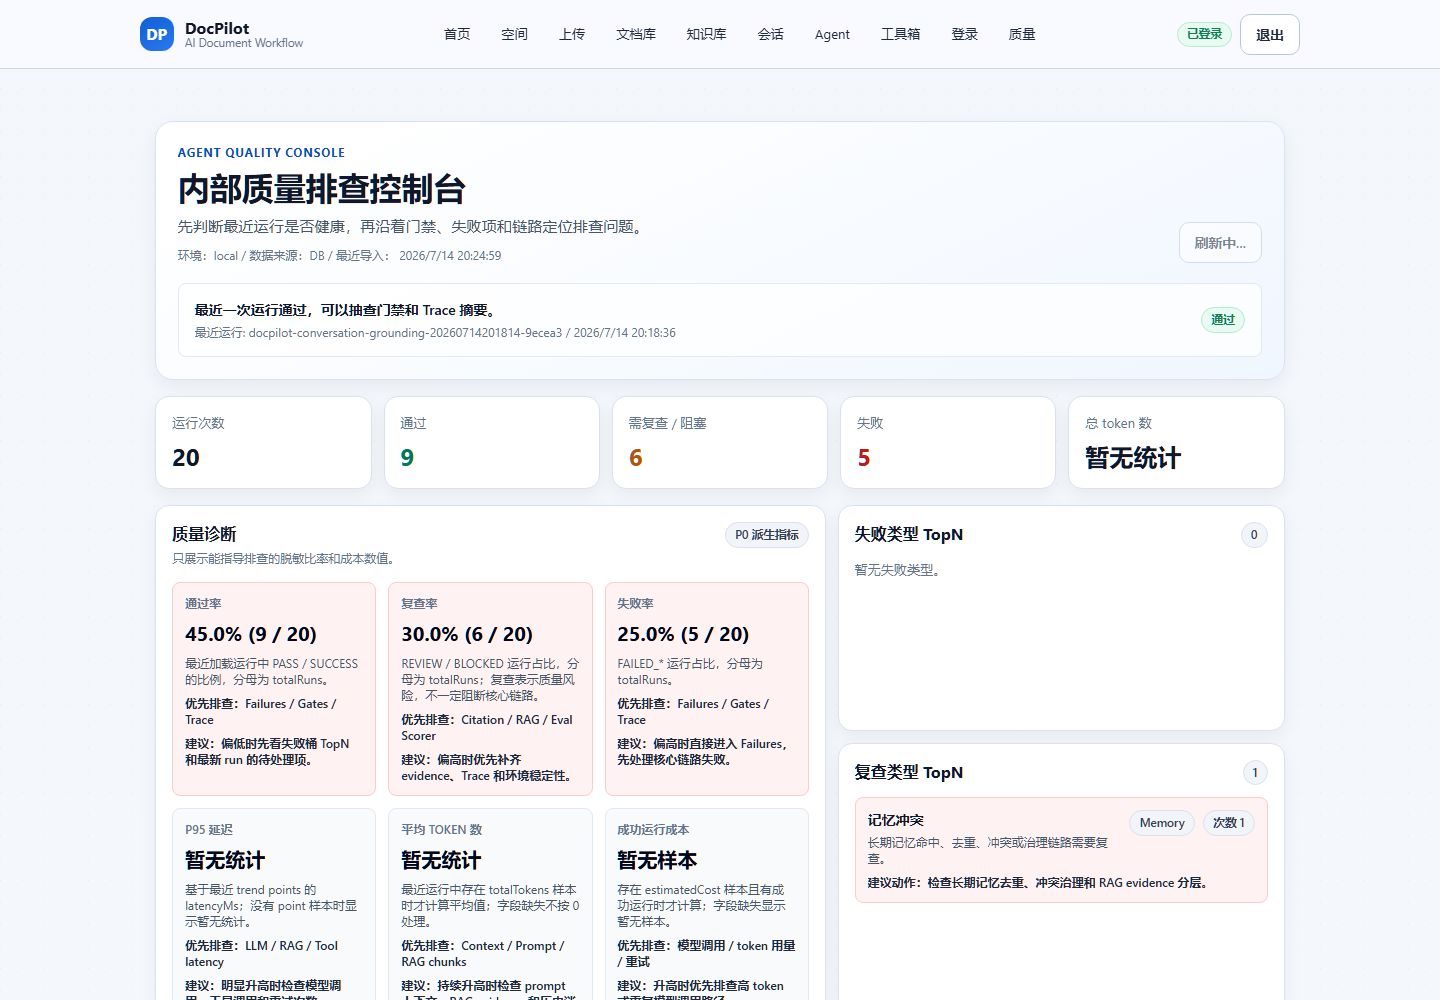
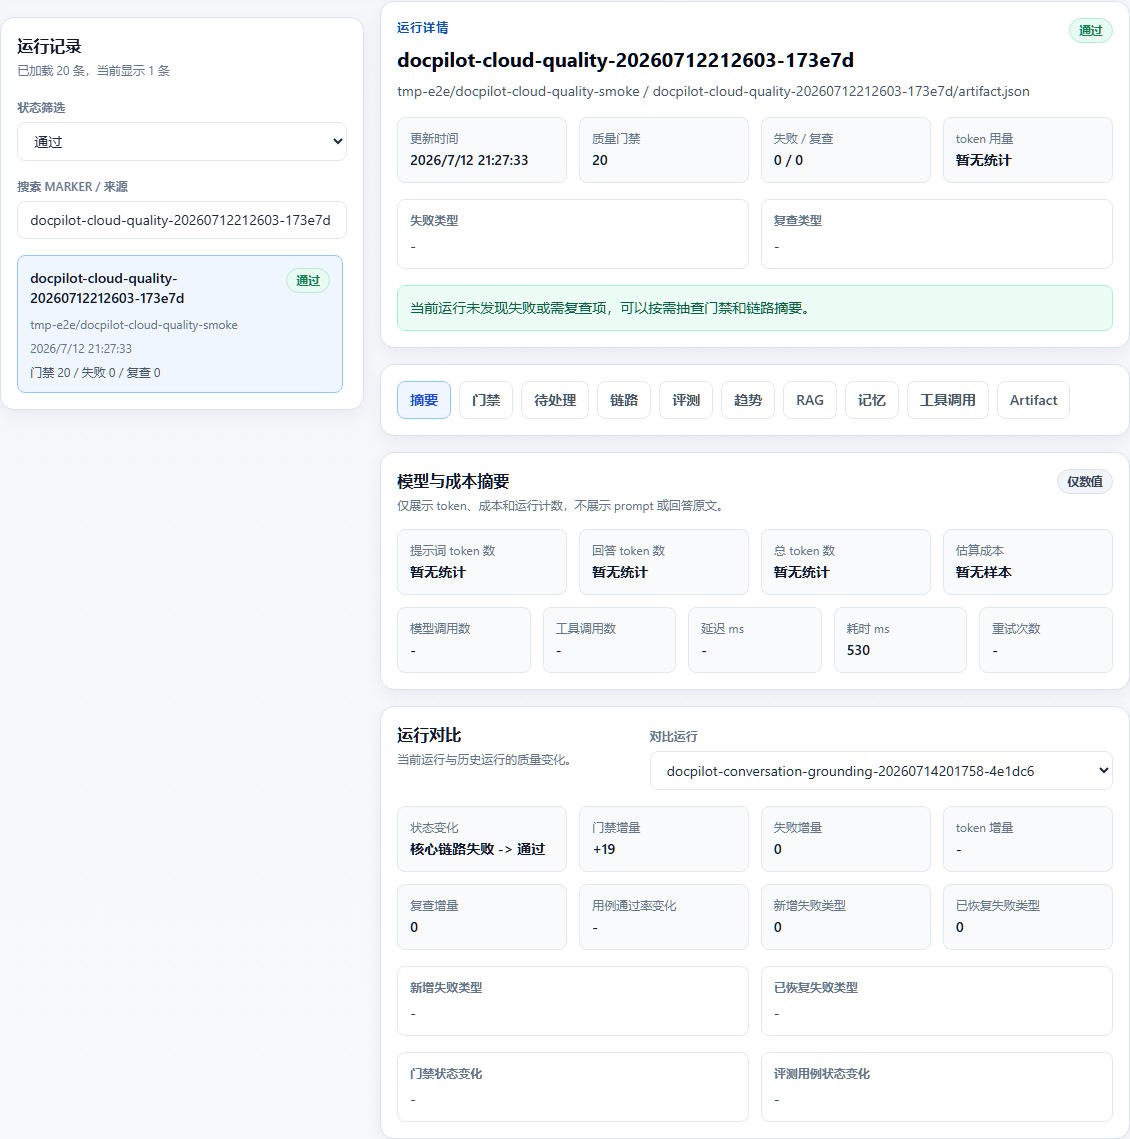
docs(readme): improve quality console showcase

diff --git a/docs/ai-dev/REAL_EXPERIENCE_AUDIT_LOG.md b/docs/ai-dev/REAL_EXPERIENCE_AUDIT_LOG.md
@@ -34,6 +34,7 @@
 
 | 日期 | Marker | 状态 | Artifact | 摘要 |
 | --- | --- | --- | --- | --- |
+| 2026-07-14 | `readme-quality-showcase-20260714214023` | VERIFIED / UI（README Quality Console 展示口径已修正） | `backend/target/readme-quality-showcase-20260714214023/quality-pass-screenshot-summary.json` | 登记 `REA-20260714-P3-041`：README 原 Quality Console 图使用内部排障混合视图，公开首屏显示低通过率 / 失败率和暂无统计字段，容易让面试官误读为系统整体质量差。已改为筛选后的 PASS 核心样本 `docpilot-cloud-quality-20260712212603-173e7d`，展示质量门禁 `20`、失败 / 复查 `0 / 0` 和门禁页；Playwright console error `0`。最近 `50` 条 QualityRun 的 PASS `27` / REVIEW `17` / FAILED_CORE_FLOW `6` 已保留为后续质量治理任务，不通过删除失败历史解决。 |
 | 2026-07-14 | `docpilot-parser-real-chain-20260714184055-21d3de` | VERIFIED / CORE（长文档 batch split 与原失败任务恢复已核验） | `backend/target/smoke/document-parser-real-chain/docpilot-parser-real-chain-20260714184055-21d3de/artifact.json` | 收口 `REA-20260713-P1-001`：parser runner 新增 LONG_MD 长文档 canary，真实切出 `25` chunks，PDF / HTML / DOCX / LONG_MD 均 parse / retrieve / citation / source locator 通过；MySQL chunk / indexed / vectorId / Qdrant point 总计 `32 / 32 / 32 / 32`，payload 和 locator 摘要均 `32`，parser boundary `4/4`，artifact redaction PASS。原失败 document `1431` / task `1322` 已只读核验为 SUCCESS，task retryCount `2`，原文档 MySQL / Qdrant parity 为 `12 / 12 / 12 / 12`，最新 outbox `SENT`、consume `SUCCESS`。 |
 | 2026-07-14 | `docpilot-memory-quality-20260714175619-8f1939` / `memory-ui-disable-restore-20260714100303` | VERIFIED / API+UI（T31 per-memory disable / restore 已收口） | `backend/target/memory-quality/docpilot-memory-quality-20260714175619-8f1939/artifact.json` / `backend/target/memory-ui-disable-restore-20260714100303/memory-ui-disable-restore-summary.json` | 修复 `REA-20260713-P2-033`：复用 `ARCHIVED` 作为单条 memory 停用状态，新增 disabled list、disable、restore API；T31 真实 smoke 证明停用后新 `AGENT_MEMORY` 不再选入且 `use_count` 不变，恢复后重新选入，跨用户 disable / restore 被拒，delete 后不可 restore。浏览器验证 `/conversations` Memory 抽屉停用 / 恢复 PASS，console error `0`，桌面 / `390px` / `320px` 无横向溢出。 |
 | 2026-07-14 | `quality-console-closeout-20260714160116` | VERIFIED（Quality artifact import root 隔离已收口） | `backend/target/quality-console-closeout-20260714160116/api-summary.json` | 修复 `REA-20260714-P3-039`：单测 artifact 改用临时 repo root，runtime import 在 `limit` 截断前过滤 `docpilot-import-*` 测试 marker，DB-backed runs/detail/trends 隐藏历史误导入测试 marker。真实 API 验证 `limit=1` 不再导入测试样本，`firstRunIsTestMarker=false`；`limit=50` 后 Memory/RAG representative domain trends 可见。 |
@@ -84,6 +85,7 @@
 
 | ID | 状态 | 严重级别 | 类型 | 模块 | 发现于 | 标题 |
 | --- | --- | --- | --- | --- | --- | --- |
+| `REA-20260714-P3-041` | VERIFIED / UI | P3 | 展示口径 / 内部质量数据解读 | README / Agent Quality Console / Showcase screenshots | `readme-quality-showcase-20260714214023` | README Quality Console 图误把内部排障混合低数据作为公开首屏展示 |
 | `REA-20260714-P3-039` | VERIFIED（已验证） | P3 | 工程流程 / 质量控制台导入体验 | Agent Quality Console / Artifact Import / Test artifact isolation | `docpilot-agent-quality-eval-20260714151238-756d91` 验证前置导入 | Quality Console artifact import root 会优先扫到单测残留 `docpilot-import-*` 样本 |
 | `REA-20260714-P2-038` | VERIFIED / UI+API | P2 | 质量控制台体验 / 诊断误导 | Agent Quality Console / Frontend / Quality API | `quality-console-disabled-state-20260714` | Quality Console disabled 被误显示为账号无权限和暂无样本 |
 | `REA-20260713-P2-037` | VERIFIED / UI | P2 | 可信引用 / 前端可解释性问题 | Conversation / Citation UI | `conversation-citation-expand-20260714172419` | 回答卡片混淆召回证据和实际引用，来源区域横向拥挤且无法定位支持片段 |
@@ -127,6 +129,62 @@
 | `REA-20260705-P3-008` | VERIFIED（已验证） | P3 | 工程流程问题 | Smoke Runner / Frontend Interaction Gate | `docpilot-real-user-qa-20260705205210-8c882e` | frontendInteraction 捕获 KB 阶段 TypeError 时缺少脱敏 message shape，难以定位 |
 | `REA-20260708-P3-009` | VERIFIED（已验证） | P3 | 工程流程问题 | Smoke Runner / Document Parser | `docpilot-parser-real-chain-20260708212024-9bd2ea` | parser smoke 静默复用不受控 backend 导致 QA 阶段误失败 |
 | `REA-20260709-P3-010` | VERIFIED（已验证） | P3 | 工程流程问题 | Smoke Runner / Document Parser | `docpilot-parser-real-chain-20260709230208-fc2876` | parser smoke direct / QA 诊断计数和环境断链归因不够准确 |
+
+## 2026-07-14 README Quality Console 展示图修正
+
+### `REA-20260714-P3-041` README Quality Console 图误把内部排障混合低数据作为公开首屏展示
+
+状态：VERIFIED / UI
+
+严重级别：P3
+
+类型：展示口径 / 内部质量数据解读
+
+模块：README / Agent Quality Console / Showcase screenshots
+
+发现 marker：
+
+- `readme-quality-showcase-20260714214023`
+
+复现步骤：
+
+1. 打开 GitHub README 页面预览区。
+2. 查看原 `readme-quality-console-overview.png` 与 `readme-quality-console-trends.png`。
+3. 观察 Quality Console 截图中的运行次数、通过率、失败率、暂无统计字段和趋势摘要。
+
+实际结果：
+
+- 原截图展示的是内部排障混合视图，最近 runs 中包含 PASS、REVIEW、FAILED_CORE_FLOW、环境阻塞和历史 artifact 噪音。
+- 公开首屏可见低通过率 / 失败率和多个“暂无统计”，容易被误读为系统整体质量差或数据链路未打通。
+
+预期结果：
+
+- README 首屏展示应突出已验证能力和可演示核心样本。
+- 内部排障视图仍保留 REVIEW / FAILED 数据，但不作为公开首屏主图。
+
+可能原因：
+
+- 截图时直接使用全量最近 runs 概览，没有区分“showcase 视角”和“内部排障视角”。
+- Quality Console 顶部 KPI 设计面向内部诊断，默认会聚合失败样本和缺字段样本，不适合未经筛选放入 README。
+
+修复记录：
+
+- 重新截取筛选后的 PASS 核心样本 `docpilot-cloud-quality-20260712212603-173e7d`。
+- 新图展示真实 DB-backed run：`PASS`、质量门禁 `20`、失败 / 复查 `0 / 0`、门禁页失败 `0` / 需复查 `0` / 已通过 `20`。
+- README caption 改为“PASS 样本详情”和“核心门禁”，不再把第二张图描述为混合趋势。
+
+验证记录：
+
+- 临时后端 `18081` + 前端 `3007`。
+- 临时内部管理员 userId `772`。
+- Quality status enabled / authorized，runCount `55`。
+- Playwright 截图 console error `0`。
+- 本轮未提交 token、密码、prompt、answer 原文、evidence context、连接串、云地址或 raw artifact。
+
+后续任务：
+
+- 最近 `50` 条 QualityRun 中 PASS `27`、REVIEW `17`、FAILED_CORE_FLOW `6`，需要后续按来源分桶治理。
+- 治理方向：区分预期失败 / 环境阻塞 / 真实质量缺口 / artifact 字段缺失，并逐项修复，而不是删除失败历史或伪造通过率。
 
 ## 2026-07-14 Agent Quality Console 持久化导入验证
 

diff --git a/docs/ai-dev/CURRENT_TASK.md b/docs/ai-dev/CURRENT_TASK.md
@@ -1,5 +1,13 @@
 # Current Task
 
+## 2026-07-14 README Quality Console 展示图修正（VERIFIED / UI）
+
+- 本轮目标：修正 README 中 Quality Console 图把内部排障混合数据放到公开首屏的问题；不造假数据、不删除失败历史、不改业务代码。
+- 已完成：`README.md` 中 Quality Console 两张图改为 PASS 核心样本展示视角；`readme-quality-console-overview.png` 展示 `docpilot-cloud-quality-20260712212603-173e7d` 的 DB-backed PASS run、质量门禁 `20`、失败 / 复查 `0 / 0` 和运行对比；`readme-quality-console-gates.png` 展示同一 run 的门禁页，失败门禁 `0`、需复查门禁 `0`、已通过门禁 `20`。
+- 真实 UI 验证：临时后端 `18081` + 前端 `3007`，临时内部管理员 userId `772`；前端代理 `/backend/api/quality/status` 返回 enabled / authorized / runCount `55`；Playwright 选择状态筛选 `PASS` 与 marker `docpilot-cloud-quality-20260712212603-173e7d` 截图，console error `0`。
+- 后续治理任务：全量 QualityRun 最近 `50` 条中 PASS `27`、REVIEW `17`、FAILED_CORE_FLOW `6`；这些低数据不再作为 README 首屏展示，但需要后续按来源分桶审计并修复真实质量问题或 artifact 缺字段问题。
+- 安全边界：截图和 summary 不保存 token、密码、prompt、answer 原文、evidence context、连接串或云地址；临时 token 只在 ignored target 目录中短暂使用，收尾时删除；本轮不提交 raw artifact / 日志。
+
 ## 2026-07-14 GitHub PR #4 CI checks 修复（VERIFIED / LOCAL）
 
 - 本轮目标：解释并修复 GitHub PR #4 页面显示的 `CI / Backend tests (Java 17)` 与 `CI / Frontend checks (Node 20)` 失败，不扩展业务功能。

diff --git a/docs/showcase/DEMO_SMOKE_RECORD.md b/docs/showcase/DEMO_SMOKE_RECORD.md
@@ -4,6 +4,30 @@
 
 本文件记录用于面试 / 展示准备的 demo smoke 证据摘要，并明确每次验证的能力边界。
 
+## 2026-07-14 README Quality Console PASS Showcase
+
+状态：PASS（README 展示截图 / 真实 UI）
+
+验证：
+
+- 临时后端 `18081` + 临时前端 `3007`
+- Playwright 浏览器截图
+- 临时内部管理员访问 DB-backed Quality Console
+
+Marker:
+
+- 展示样本：`docpilot-cloud-quality-20260712212603-173e7d`
+- 截图 run：`readme-quality-showcase-20260714214023`
+
+已验证：
+
+- README Quality Console 展示图改为筛选后的 PASS 核心样本，不再把内部排障用的全量混合低通过率概览作为公开首屏图。
+- 选中 run 状态 `PASS`、质量门禁 `20`、失败 / 复查 `0 / 0`；门禁页显示失败门禁 `0`、需复查门禁 `0`、已通过门禁 `20`。
+- Quality status 返回 enabled / authorized，runCount `55`；Playwright 截图 console error 为 `0`。
+- 新截图：`docs/assets/screenshots/readme/readme-quality-console-overview.png` 与 `docs/assets/screenshots/readme/readme-quality-console-gates.png`。
+
+边界：这是 README 展示口径修正，不是删除失败历史或伪造质量数据。内部 Quality Console 仍保留 REVIEW / FAILED_CORE_FLOW 运行用于排障；最近 `50` 条 QualityRun 的低数据已作为后续治理任务记录，不写成整体已优化。
+
 ## 2026-07-14 Document Parser Long Markdown Batch Split
 
 状态：PASS（parser core）/ REVIEW（overall 仅因本轮显式 SkipFrontend）

diff --git a/docs/ai-dev/STATE.md b/docs/ai-dev/STATE.md
@@ -1,5 +1,12 @@
 # DocPilot 当前状态
 
+## 2026-07-14 README Quality Console 展示口径（VERIFIED / UI）
+
+- 根 README 的 Quality Console 图已从“内部排障混合数据概览”修正为“PASS 核心样本详情 + 核心门禁”视角，避免公开首屏直接显示全量最近 runs 的低通过率 / 失败率而被误读为系统整体质量差。
+- 新展示样本使用真实 DB-backed run `docpilot-cloud-quality-20260712212603-173e7d`：状态 `PASS`、质量门禁 `20`、失败 / 复查 `0 / 0`。截图分别保存为 `docs/assets/screenshots/readme/readme-quality-console-overview.png` 和 `docs/assets/screenshots/readme/readme-quality-console-gates.png`。
+- 本轮仍保留内部排障事实：最近 `50` 条 QualityRun 中 PASS `27`、REVIEW `17`、FAILED_CORE_FLOW `6`，后续需要按来源拆分预期失败、环境阻塞、真实质量缺口和 artifact 字段缺失；不能通过删除失败历史或伪造通过率解决。
+- 真实验证：临时后端 `18081` + 前端 `3007`，临时内部管理员 userId `772`；Quality status enabled / authorized，runCount `55`；Playwright 截图 console error `0`。
+
 ## 2026-07-14 GitHub PR #4 发布分支 CI 状态（VERIFIED / LOCAL）
 
 - PR #4 的本地 CI 等价验证已恢复：后端全量测试 `1031` tests PASS（`5` skipped），前端 lint / production build PASS，前端 Playwright E2E `14` tests PASS。

diff --git a/docs/ai-dev/PROGRESS_LOG.md b/docs/ai-dev/PROGRESS_LOG.md
@@ -1,5 +1,12 @@
 # Progress Log
 
+## 2026-07-14 README Quality Console 展示图修正
+
+- 重新截取 README 的 Quality Console 图片：不再使用全量混合 runs 的低通过率概览，改为筛选后的 PASS 核心样本 `docpilot-cloud-quality-20260712212603-173e7d`。
+- 新图展示 DB-backed PASS run、质量门禁 `20`、失败 / 复查 `0 / 0`、运行对比和门禁页；第二张图片从趋势图改为核心门禁图 `readme-quality-console-gates.png`。
+- 真实 UI 验证：临时后端 `18081` + 前端 `3007`，Quality status enabled / authorized，runCount `55`，Playwright 截图 console error `0`。
+- 后续治理记录：最近 `50` 条 QualityRun 为 PASS `27` / REVIEW `17` / FAILED_CORE_FLOW `6`，低数据作为内部质量治理任务保留，不在 README 首屏展示。
+
 ## 2026-07-14 GitHub PR CI checks 修复
 
 - 修复 PR #4 上 Backend tests 失败：`MemoryQualityEvalRunner` 的 eval harness 补齐 `memoryMapper.markUsed(...)` mock，匹配当前 `MemorySelector` 只有 markUsed 成功才注入 ACTIVE memory 的生产语义。

diff --git a/docs/README.md b/docs/README.md
@@ -94,7 +94,7 @@
 
 - `docs/assets/screenshots/`：README、项目展示、求职展示用截图资源。
 
-当前截图主要服务已有 showcase。RAG no-evidence、answer audit、chunk structure quality、v6 hybrid / rerank gate 和 v7 memory-aware trace 已有 smoke / eval 证据；等 eval corpus 和面试展示材料继续增强后，再补新的 RAG / Memory 截图会更有价值。
+当前截图主要服务已有 showcase。2026-07-14 README 专用截图已补齐 Conversation RAG 引用来源、Context Inspector 技术详情和 Quality Console PASS 样本 / 核心门禁视角；公开 README 不把内部排障用的混合失败率概览作为首屏图。RAG no-evidence、answer audit、chunk structure quality、v6 hybrid / rerank gate 和 v7 memory-aware trace 已有 smoke / eval 证据；等 eval corpus 和面试展示材料继续增强后，再补新的 RAG / Memory 截图会更有价值。
 
 ## 8. 使用规则
 
